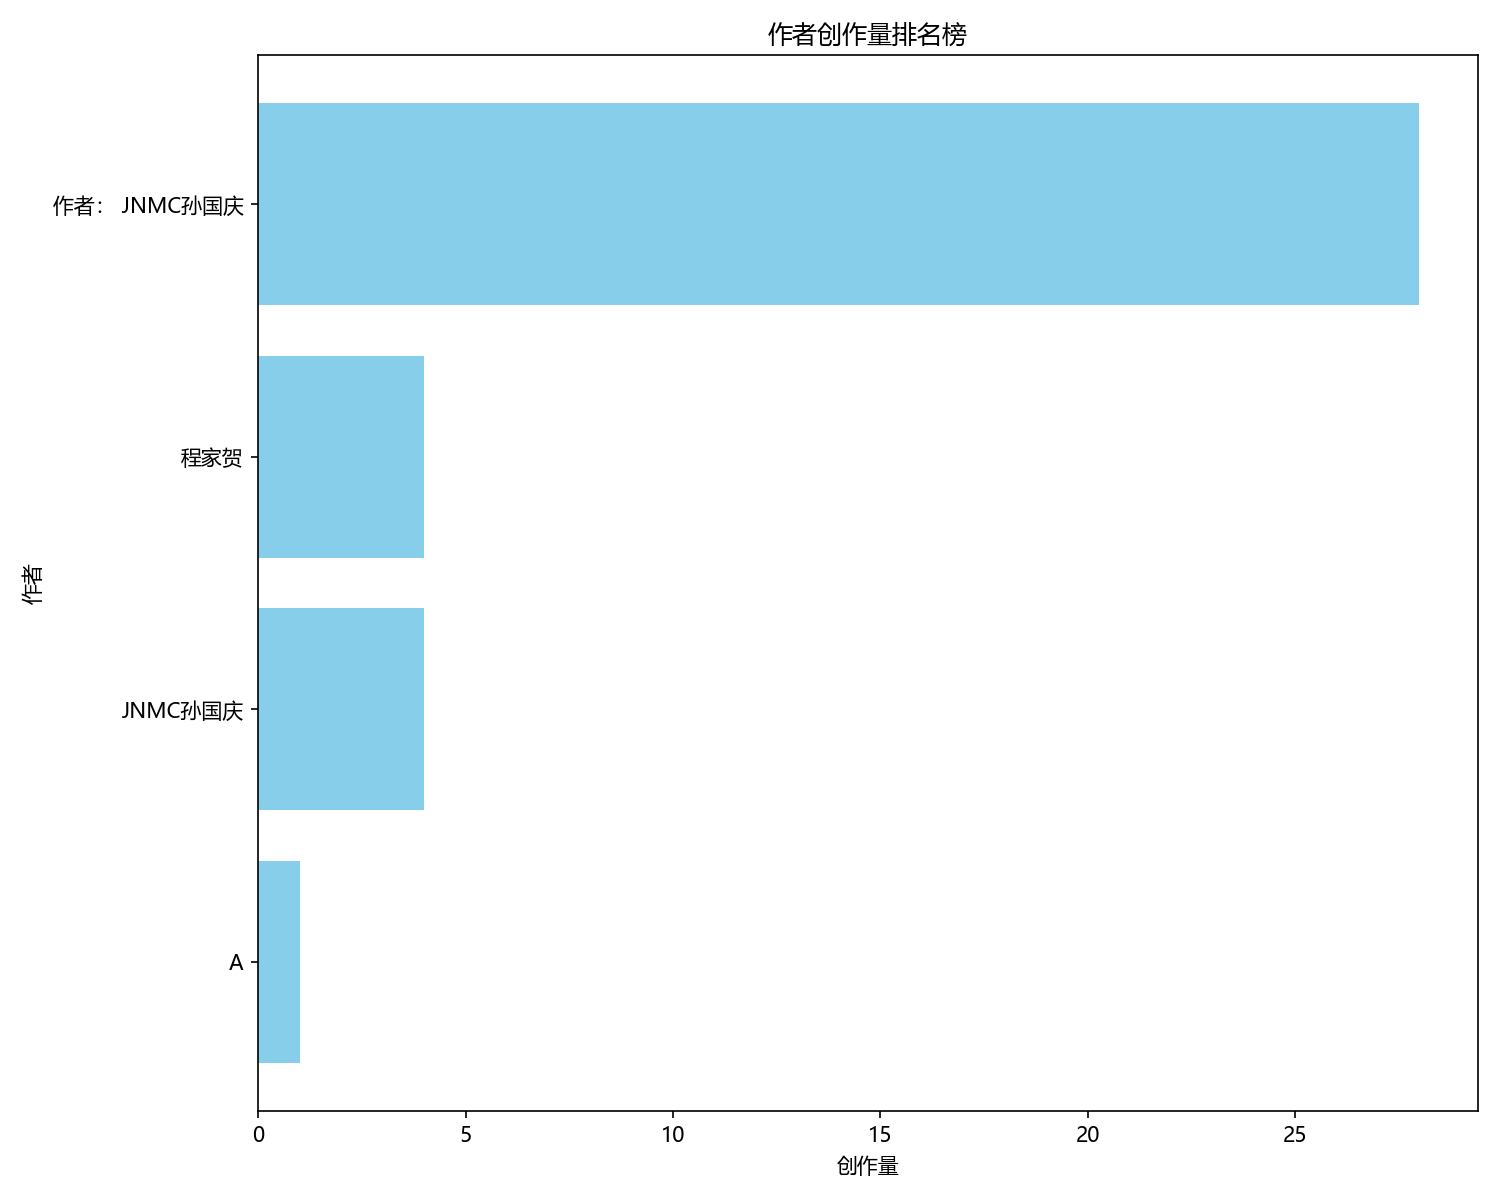
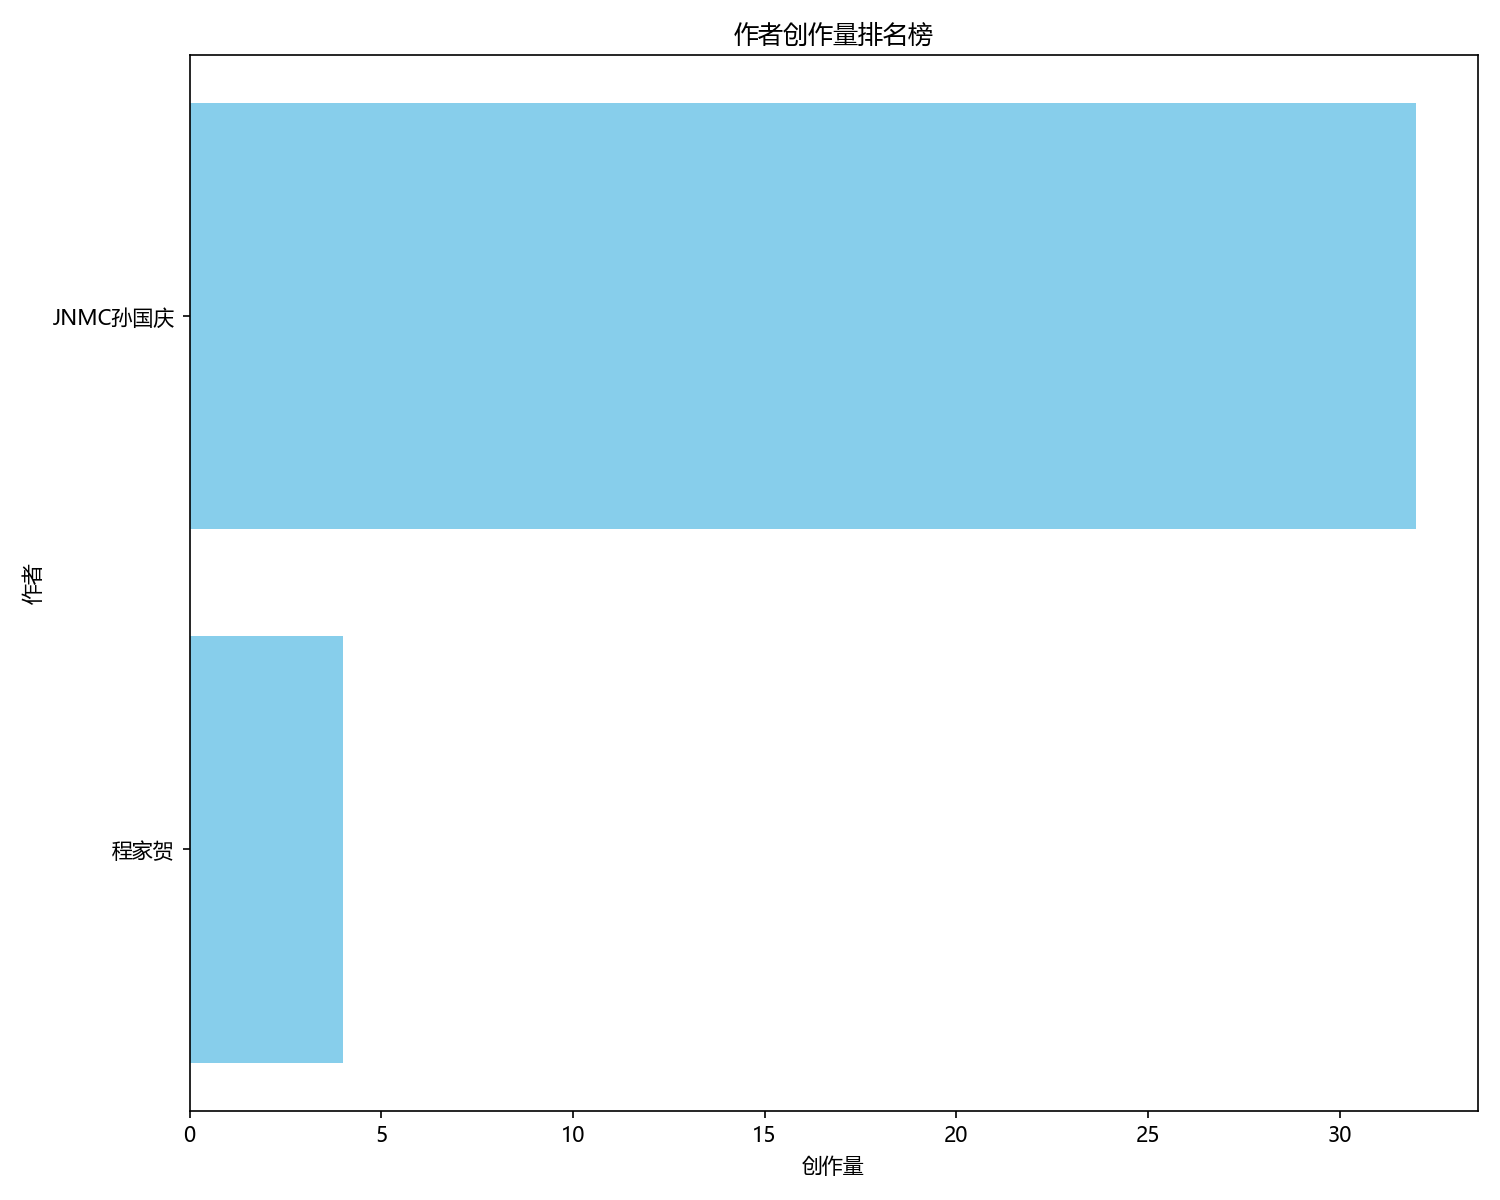
d

diff --git a/算法/周赛补题/周赛68/div4_{前缀和;组合数学}_B.md b/算法/周赛补题/周赛68/div4_{前缀和;组合数学}_B.md
@@ -1,4 +1,4 @@
-作者： JNMC孙国庆
+[JNMC孙国庆]
 这个题目要求找出一个矩阵中面积最大的、不包含蘑菇（`*`）的矩形区域。为了解决这个问题，我们采用了一个“前缀和 + 枚举子矩形”的方法。让我们一步步来分析和实现这个解法。
 
 ### 解题思路

diff --git a/算法/周赛补题/周赛68/div3_{数论}_D.md b/算法/周赛补题/周赛68/div3_{数论}_D.md
@@ -1,4 +1,4 @@
-作者: 程家贺
+[程家贺]
 // https://ac.nowcoder.com/acm/problem/283479
 #### 思路: 分解495的质因数, 3 3 5 11, 发现至少需2个3, 1个5和1个7
 #### 分解n个数, 得到一个关于3, 5, 9, 11 每种因子存在状态的数组(共12种), 进行前缀和

diff --git a/README.md b/README.md
@@ -12,3 +12,4 @@
 
 ![alt text](算法/周赛补题/数据收集脚本/img/div_distribution.png)
 ![alt text](算法/周赛补题/数据收集脚本/img/type_distribution.png)
+![alt text](算法/周赛补题/数据收集脚本/img/author_ranking.png)

diff --git a/算法/周赛补题/杂/div2_{思维题;贪心}_天梯赛.md b/算法/周赛补题/杂/div2_{思维题;贪心}_天梯赛.md
@@ -1,4 +1,4 @@
-作者： JNMC孙国庆
+[JNMC孙国庆]
 # [转到题目](https://pintia.cn/problem-sets/1869538346997542912/exam/problems/type/7?problemSetProblemId=1869538428941660164&page=0)
 ![alt text](image-1.png)
 ![alt text](image.png)

diff --git a/算法/周赛补题/小白月赛105/div3_{计数;并查集}_D.md b/算法/周赛补题/小白月赛105/div3_{计数;并查集}_D.md
@@ -1,4 +1,4 @@
-作者： JNMC孙国庆
+[JNMC孙国庆]
 # [转到题目](https://ac.nowcoder.com/acm/contest/95937/D)
 ## 思路
 - 根据题目要求,我们需要求出来最少的染色次数，保证，每次访问颜色都是相同的。

diff --git a/算法/周赛补题/杂/div2_{集合论}_天梯赛D.md b/算法/周赛补题/杂/div2_{集合论}_天梯赛D.md
@@ -1,4 +1,4 @@
-作者： JNMC孙国庆
+[JNMC孙国庆]
 # [转到题目](https://pintia.cn/problem-sets/1869538346997542912/exam/problems/type/7?problemSetProblemId=1869538428941660163)
 ![alt text](image-3.png)
 ![alt text](image-2.png)

diff --git a/算法/周赛补题/小白月赛105/div3_{割点;思维题}_C.md b/算法/周赛补题/小白月赛105/div3_{割点;思维题}_C.md
@@ -1,4 +1,4 @@
-作者： JNMC孙国庆
+[JNMC孙国庆]
 # [小白月赛105 - 题目 C](https://ac.nowcoder.com/acm/contest/95937/C)
 - 本题目是有关"关节点"的图论问题。
 - 但是也可以通过找规律的方式做出

diff --git a/算法/周赛补题/周赛71/div4_{思维题;诈骗题;贪心}_C.md b/算法/周赛补题/周赛71/div4_{思维题;诈骗题;贪心}_C.md
@@ -1,4 +1,4 @@
-作者： JNMC孙国庆
+[JNMC孙国庆]
 # [转到题目](https://ac.nowcoder.com/acm/contest/97443/C)
 
 这种题目，看起来很像某种算法题，但是实际上就是一个显然性质的思维推导

diff --git a/算法/周赛补题/杂/div2_{二分}_天梯赛B.md b/算法/周赛补题/杂/div2_{二分}_天梯赛B.md
@@ -1,4 +1,4 @@
-作者： JNMC孙国庆
+[JNMC孙国庆]
 # [转到题目](https://pintia.cn/problem-sets/1869538346997542912/exam/problems/type/7?problemSetProblemId=1869538428941660161&page=0)
 
 ![alt text](image-4.png)

diff --git a/算法/周赛补题/周赛67/div5_{贪心;技巧题}_B.md b/算法/周赛补题/周赛67/div5_{贪心;技巧题}_B.md
@@ -1,4 +1,4 @@
-作者:JNMC孙国庆
+[JNMC孙国庆]
 # [转到题目](https://ac.nowcoder.com/acm/contest/95016/B)
 
 本题目的关键是,我们要观察到，用到了浮点数运算

diff --git a/算法/周赛补题/周赛68/div3_{思维题;模拟;贪心}_C.md b/算法/周赛补题/周赛68/div3_{思维题;模拟;贪心}_C.md
@@ -1,4 +1,4 @@
-作者： JNMC孙国庆
+[JNMC孙国庆]
 Title: C. [Two Arrays](https://ac.nowcoder.com/acm/contest/95928/C)
 Tags: 周赛, 贪心
 Author: <JNMC孙国庆>

diff --git a/算法/周赛补题/codeforces/div3_{贪心}_D.md b/算法/周赛补题/codeforces/div3_{贪心}_D.md
@@ -1,4 +1,4 @@
-[JNMC孙国庆;A]
+[JNMC孙国庆]
 # [转到题目](https://codeforces.com/contest/2050/problem/D)
 ## 题目思路
 **我们想最大化这个整体**
